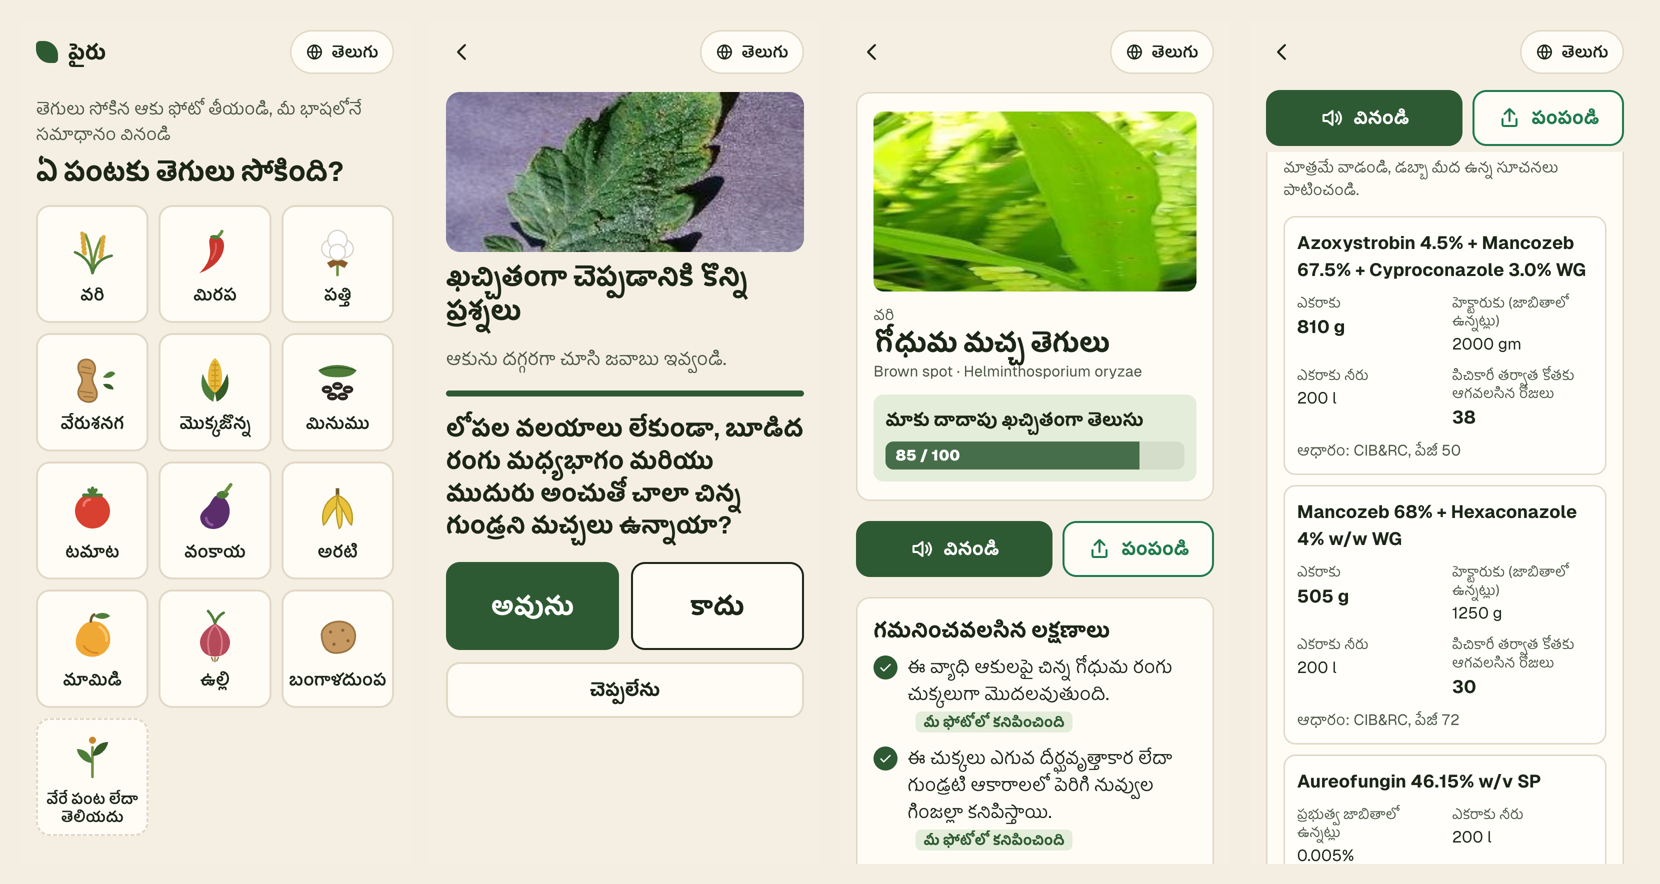
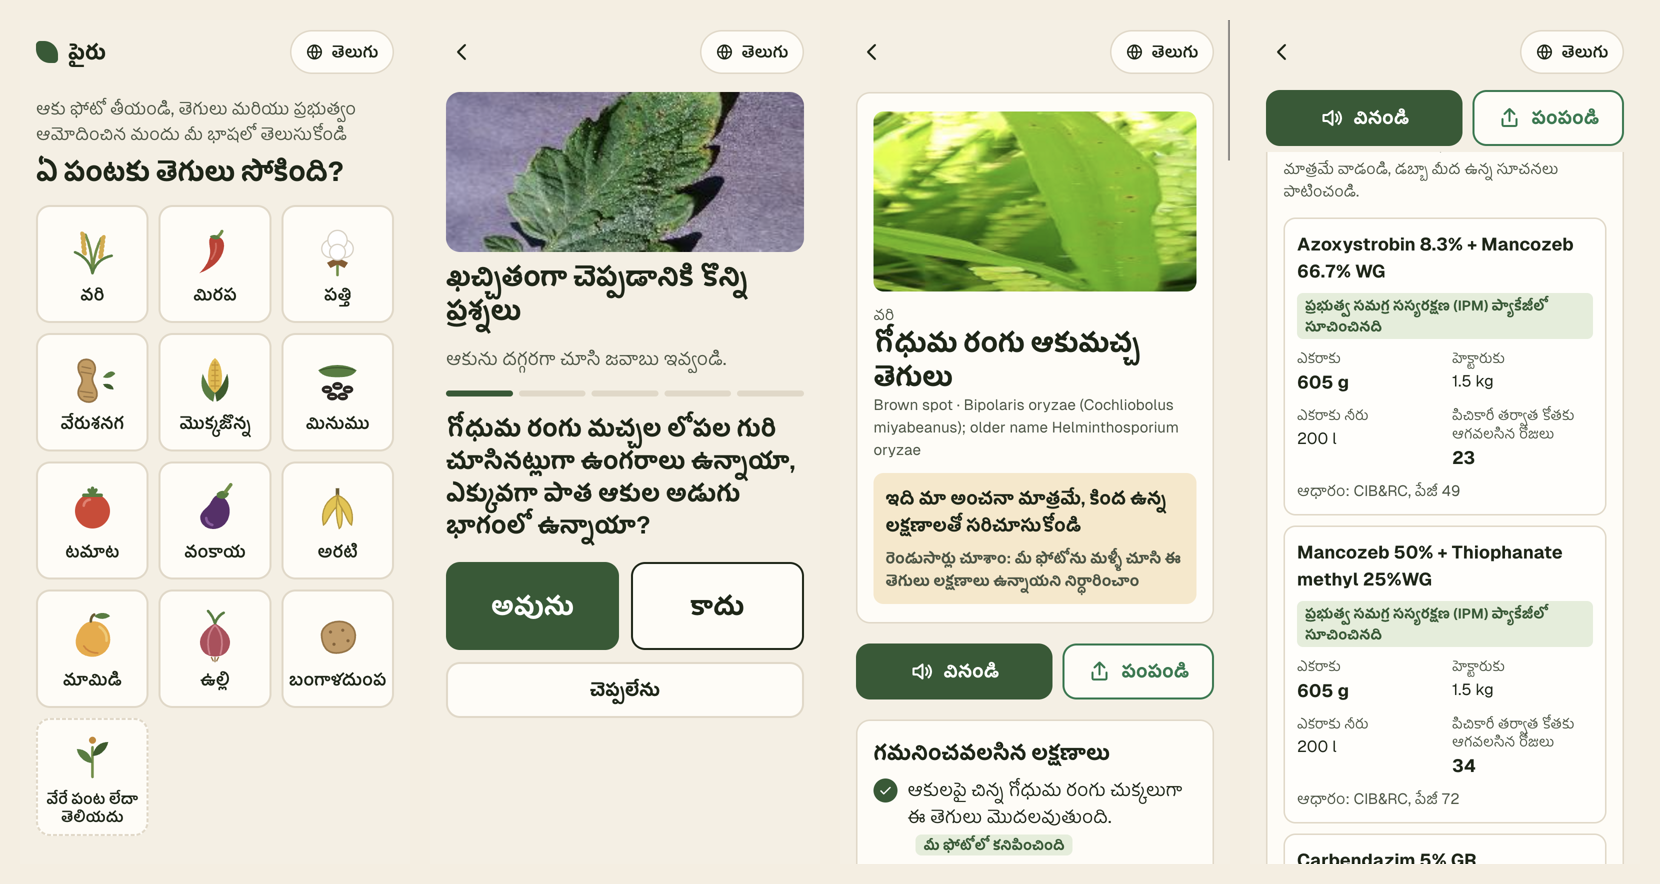
README: two-look diagnosis, dose check, IPM ranking, measured accuracy with limits, privacy

diff --git a/README.md b/README.md
@@ -1,52 +1,78 @@
 # Pairu (పైరు)
 
-Pairu helps a farmer photograph a sick leaf and hear, in their own language, what the disease is, how sure we are, and what to do about it, using only treatments that the Government of India has approved for that crop. Pairu is Telugu for a standing crop.
+Pairu helps a farmer photograph a sick leaf and hear, in their own language, what the disease is, how sure we are, and what to do about it, using only treatments that the Government of India has approved for that crop and that pest. Pairu is Telugu for a standing crop.
 
-**Live app:** https://pairu.pages.dev
+**Live app:** https://pairu.pages.dev &nbsp;|&nbsp; **Evidence page:** https://pairu.pages.dev/evidence
 
 Built for Avishkaar Season 4 (Virtual Track, AITAM Tekkali), problem statement AG-03: "Develop an intelligent multilingual recommendation system that provides reliable crop-specific disease-management guidance, including disease symptoms, treatment options, preventive measures, and recommended farming practices in farmers' native languages."
 
-![Pairu in Telugu: crop tiles, a follow-up question, the advice card and approved treatments](docs/screenshot.png)
+![Pairu in Telugu: crop tiles, a follow-up question, the advice card and IPM-ranked approved treatments](docs/screenshot.png)
 
 ## What it does
 
 1. The farmer picks a language (Telugu first, then Hindi, Tamil, Kannada, Marathi, Bengali, Odia, Gujarati, Punjabi, Malayalam and English) and taps one of 12 crop tiles.
-2. They take a photo of the leaf and, if they like, hold the mic button and describe the problem in their own words.
-3. Pairu names the disease with an honest confidence score. When two diseases look alike, it asks two or three yes/no questions that tell them apart. When it is still unsure, or the photo is blurry or shows a different crop, it says so and offers the Kisan Call Centre (1800-180-1551) instead of guessing.
-4. The advice card shows the local disease name, the symptoms (marking the ones seen in the photo), organic and biological options first, then chemicals that CIB&RC has registered for that crop and that problem, with dose per acre, water and the waiting period before harvest, followed by prevention and this week's field practices. It can be read aloud, shared on WhatsApp, and it checks whether rain or wind in the next 24 hours makes spraying a bad idea.
-
-No account is needed, and the app shell works offline as a PWA. There is also a "Try a sample photo" sheet with six labelled photos that are not in the evaluation set, and an `/about` page explaining how Pairu decides.
+2. They photograph the leaf, or tap or speak the symptoms they see ("describe instead"). A "Try a sample photo" sheet holds six labelled photos that are not in the test set.
+3. Pairu takes a first look and, when it is not sure enough, a targeted second look at the same photo. When two diseases still look alike it asks one to three yes/no questions. When it is still unsure, or the photo is blurry or shows another crop, it says so and offers the Kisan Call Centre (1800-180-1551) or the nearest of 24 Andhra Pradesh KVKs.
+4. The advice card shows the local disease name, the symptoms, a "should I spray yet?" threshold (19 pests and diseases), organic and biological options first, then the top three chemicals ranked by the government IPM package for that problem, with a checked dose per acre, water, the waiting period before harvest, the CIB&RC page, and "avoid" warnings (for example no synthetic pyrethroids for brown plant hopper). When nothing is approved for that crop and problem, it says so plainly. Then prevention, this week's tasks, a spray-weather check by location or district, listen, share and the nearest KVK.
+5. "My checks" keeps past checks on the phone and reminds the farmer to recheck after 7 days. The app shell works offline as a PWA.
 
 ## How it works
 
-**The model proposes, code decides.**
+**The model proposes, code decides.** No model is trained by us: a general vision model only ranks diseases from a closed list and answers yes/no questions, and every decision and every dose comes from code.
 
-- `POST /api/diagnose` sends the photo (resized to 1024 px on the phone) and the closed list of diseases we hold for that crop to the vision model, with a JSON schema whose id field can only be one of those ids, `<crop>_healthy` or `unknown`. The chain is Gemini 3.1 Flash Lite, then Gemini 3.5 Flash Lite, and Claude Haiku 5.5 only if both fail.
-- Code then decides (`functions/_lib/decide.ts`): it answers when the top confidence is at least 0.75 and leads the second by at least 0.25; it asks up to three yes/no questions when the top two are known look-alikes; otherwise it says it is unsure. `POST /api/resolve` counts the answers as votes, and a tie stays unsure. No model is involved in that step.
-- `GET /api/advice` builds the card from the knowledge base and joins treatments from the CIB&RC register in code (`functions/_lib/advice.ts`): banned and withdrawn actives are dropped, crop-specific restrictions are applied, WHO class Ia and Ib products are flagged and listed after safer ones, and when nothing is approved for that crop and problem the card says so plainly. A model never writes a dose.
-- Sarvam translates the card (`sarvam-translate:v1`), transcribes speech (`saarika:v2.5`) and reads the answer aloud (`bulbul:v3`). Open-Meteo gives the spray-weather check. Results and translations are cached in Workers KV.
+- **First look** (`functions/api/diagnose.ts`, `functions/_lib/vision.ts`): the photo (at most 1024 px) and the closed list of diseases we hold for that crop go to Gemini 3.1 Flash Lite, with a JSON schema whose id field can only be one of those ids, `<crop>_healthy` or `unknown`. Gemini 3.5 Flash Lite is the fallback, and Claude Haiku 5.5 (a paid API) runs only if both Gemini calls fail. Each call has a 12-second timeout.
+- **Decide** (`functions/_lib/verify.ts`, `decide.ts`): at a top confidence of 0.9 or more, answer (this threshold was chosen on half of the test set only). Between 0.4 and 0.9, a **second look**: the model sees the photo again and answers yes, no or cannot tell to our knowledge-base questions that tell the candidates apart and to one "do you see this sign?" question per candidate; code keeps a disease only if its sign is seen and nothing rules it out. One survivor is shown as "checked twice" but worded as a best guess; signs the photo cannot settle become one to three questions for the farmer, where a tie stays unsure. Below 0.4, a blurry photo, another crop or nothing left means a refusal.
+- **Treatments** (`functions/_lib/advice.ts`, `dose.ts`): rows from the CIB&RC register for that crop and pest; a product is dropped if any one of its actives is banned or withdrawn (streptomycin + tetracycline, proposed for a ban by a 2021 draft order, is dropped as a precaution); WHO class Ia and Ib products are flagged and placed last; the top three follow the IPM packages and skip the "avoid" list.
+- **Dose check**: a printed unit is never trusted. Each formulation dose is reconciled with the active-ingredient column and the label percentages; only a scale that agrees within 1.5 times is converted to per acre. Per-litre rows show per litre of water, seed treatments per kg of seed, bio products as printed, and rows that do not reconcile say "check the label". `node scripts/check_doses.mjs` reports 0 rows shown more than 2 times away from the active-ingredient calculation.
+- **Language and voice**: reviewed Telugu for every disease name and every farmer-facing line of the knowledge base (`data/kb_te.json`), Sarvam translate for the other languages, Saarika speech to text and Bulbul text to speech. Open-Meteo gives the spray-weather check. Results and translations are cached in Workers KV, and per-IP rate limits protect the model and voice endpoints.
 
 | Layer | Tools |
 |---|---|
 | Front end | React 18, Vite, TypeScript, PWA, on Cloudflare Pages |
-| API | Cloudflare Pages Functions (TypeScript), Workers KV |
-| Vision | Gemini 3.1 Flash Lite, Gemini 3.5 Flash Lite, Claude Haiku 5.5 as last resort |
+| API | Cloudflare Pages Functions (TypeScript), Workers KV, Cache API rate limits |
+| Vision | Gemini 3.1 Flash Lite, Gemini 3.5 Flash Lite; Claude Haiku 5.5 as a paid last resort |
 | Language and voice | Sarvam AI translate, speech to text, text to speech |
 | Weather | Open-Meteo |
-| Data pipeline | Python, pdfplumber, poppler |
+| Data pipeline | Python, pdfplumber, poppler, Node |
 
 ## Data sources
 
-Every fact in `data/` traces to a public source; full details, parsing rules and counts are in [data/SOURCES.md](data/SOURCES.md).
+Every fact in `data/` traces to a public source; details, parsing rules and counts are in [data/SOURCES.md](data/SOURCES.md).
 
 | File | Source | Counts |
 |---|---|---|
-| `registered_uses.json` | CIB&RC "Major Uses of Pesticides" lists as on 30.09.2026 (fungicides, insecticides, bio-fungicides, bio-insecticides) | 4,454 records parsed, 2,804 for our 12 crops |
-| `banned.json` | CIB&RC list of pesticides banned, refused registration and restricted in use, 31.10.2026 | 94 entries |
-| `hazard.json` | WHO Recommended Classification of Pesticides by Hazard, 2019 edition | 160 actives classed |
-| `kb.json` | TNAU Agritech Portal, NIPHM and DPPQS AESA based IPM packages, DPPQS advisories, ICAR-IIHR, Vikaspedia, Crop Protection Network | 12 crops, 66 diseases and pests plus healthy entries, 82 follow-up questions covering 25 look-alike pairs, 24 Telugu disease names |
+| `registered_uses.json` | CIB&RC "Major Uses of Pesticides" lists as on 30.09.2026 | 4,454 records parsed, 2,804 for our 12 crops |
+| `banned.json` | CIB&RC banned, refused and restricted list (31.10.2026), plus draft order S.O. 5295(E) of 2021 on streptomycin + tetracycline | 96 entries |
+| `hazard.json` | WHO Recommended Classification of Pesticides by Hazard, 2019 | 160 actives classed |
+| `kb.json`, `kb_te.json` | TNAU Agritech Portal, NIPHM and DPPQS AESA based IPM packages, DPPQS advisories, ICAR-IIHR, Vikaspedia, Crop Protection Network | 12 crops, 71 diseases and pests plus 12 healthy entries, a Telugu name for each, thresholds for 19, IPM-recommended actives for 47 |
+| `kvk_ap.json` | ANGRAU, Dr. YSR Horticultural University and ICAR KVK lists | 24 KVKs for the 26 AP districts |
 
 Crops: paddy, cotton, chilli, groundnut, maize, tomato, brinjal, banana, mango, black gram, potato and onion. The CIB&RC lists are, in their own words, "for guidance and not for legal purposes", so the app always tells farmers to follow the product label.
+
+## Evaluation
+
+A frozen, reproducible test of 95 labelled leaf photos: 77 PlantVillage lab photos and 18 field photos of rice (Sethy et al.), 80 of diseases Pairu holds and 15 of diseases it does not. Pairu is compared with the same model asked "What crop and disease is this?" with no list. The 0.9 threshold was chosen on one half of the photos (split by file-name hash), so the other half is the fair result. Full method, every row and the raw responses are in [eval/README.md](eval/README.md) and `eval/results.json`, and on the app's `/evidence` page.
+
+| Photos of diseases Pairu holds | Pairu v2 (live) | Bare model |
+|---|---|---|
+| Held-out half (n=37): right | 28 (75.7%) | 19 (51.4%) |
+| Held-out half: answered and wrong | 5 (13.5%) | 18 (48.6%) |
+| Held-out half: said not sure | 4 | 0 |
+| All 80: right / answered and wrong | 58 (72.5%) / 12 (15.0%) | 38 (47.5%) / 42 (52.5%) |
+| Out of list (n=15): refused | 3 | 0 |
+
+The first look alone at 0.9 or more was right on all 23 photos that reached it. Limits we state plainly: most photos are lab photos (one leaf, plain background) and may have been seen by the model in training; there are about five photos per class, so margins are wide; the farmer's answers were scripted from the true label, which is the best case; the second look was wrong on 12 of the 37 answers it confirmed, so those are shown as a best guess; and diseases outside the list are refused only 3 times in 15.
+
+```bash
+python3 -I eval/build_testset.py fetch
+eval/serve_local.sh /tmp/pairu-eval                 # local API with the Gemini key only
+python3 -I eval/run.py && python3 -I eval/run_v2.py
+python3 -I eval/score.py eval/runs/<v1 run>.jsonl && python3 -I eval/score_v2.py eval/runs/<v2 run>.jsonl
+```
+
+## Privacy
+
+Photos are sent to Google's Gemini API; on the free tier Google may use inputs to improve its products, so a real pilot should use the paid tier. If both Gemini calls fail, the photo goes to Anthropic's Claude API. Pairu has no accounts and stores no photos itself; the cache keeps only the result under a hash, location is used only for the weather request, and check history stays on the phone.
 
 ## Run it locally
 
@@ -56,17 +82,16 @@ Needs Node 20 or later.
 git clone https://github.com/tahcin/pairu.git
 cd pairu
 npm install
-cp .dev.vars.example .dev.vars   # then add your GEMINI_API_KEY and SARVAM_API_KEY (ANTHROPIC_API_KEY is optional)
+cp .dev.vars.example .dev.vars   # add GEMINI_API_KEY and SARVAM_API_KEY (ANTHROPIC_API_KEY is optional)
 npm run pages:dev                # builds, then serves the app and /api with Wrangler
 ```
 
-`npm run dev` serves the front end on its own. Never commit `.dev.vars`.
-
-Rebuild the data from the original PDFs (needs Python 3 and `pdftotext` from poppler):
+Never commit `.dev.vars`. Rebuild and check the data:
 
 ```bash
 scripts/build_all.sh                                          # CIB&RC uses, banned list, WHO classes, checks
 python3 -I scripts/build_kb.py && python3 -I scripts/check_kb.py
+node scripts/check_doses.mjs
 ```
 
 Deploy to Cloudflare Pages:
@@ -76,24 +101,12 @@ npx wrangler pages secret put GEMINI_API_KEY --project-name pairu   # and SARVAM
 npm run deploy
 ```
 
-## Evaluation
-
-`eval/testset.json` is a frozen set of 95 labelled leaf photos (77 PlantVillage lab photos and 18 field photos of rice from Sethy et al.) across tomato, potato, maize and paddy; 80 show a problem Pairu holds and 15 are outside its list, to check that it refuses rather than guesses. `eval/run.py` runs each photo through Pairu (answering any follow-up questions as a farmer looking at the real leaf would) and through the same model asked an open question, and `eval/score.py` reports top-1 accuracy, accuracy when answered, the refusal rate and the confidently-wrong rate. Results are written to `eval/results.json` and shown on the app's `/evidence` page.
-
-```bash
-eval/serve_local.sh                                # local API with the Gemini key only
-python3 -I eval/run.py --base http://127.0.0.1:8817
-python3 -I eval/score.py eval/runs/<run>.jsonl
-```
-
-Lab photos on a plain background are easier than a farmer's field photo, and only four of the twelve crops have public labelled sets we could use, so the numbers are an honest lower bar to beat, not a field guarantee.
-
 ## Licence and credits
 
 Code: MIT (see [LICENSE](LICENSE)).
 
-Data and services: CIB&RC and DPPQS, Ministry of Agriculture and Farmers Welfare, Government of India; WHO (hazard classification, CC BY-NC-SA 3.0 IGO); Tamil Nadu Agricultural University; NIPHM; ICAR-IIHR; Vikaspedia; Crop Protection Network; PlantVillage (Mohanty et al. 2016, CC BY-SA 3.0); Rice Leaf Disease Image Samples (Sethy et al. 2020, Mendeley Data, CC BY 4.0); Google Gemini; Sarvam AI; Open-Meteo; Cloudflare.
+Data and services: CIB&RC and DPPQS, Ministry of Agriculture and Farmers Welfare, Government of India; WHO (hazard classification, CC BY-NC-SA 3.0 IGO); Tamil Nadu Agricultural University; NIPHM; ICAR-IIHR; Vikaspedia; ANGRAU; Dr. YSR Horticultural University; Crop Protection Network; PlantVillage (Mohanty et al. 2016, CC BY-SA 3.0); Rice Leaf Disease Image Samples (Sethy et al. 2020, Mendeley Data, CC BY 4.0); Google Gemini; Sarvam AI; Open-Meteo; Cloudflare; Anthropic.
 
 ## How it was built
 
-Pairu was built by Team Solus (Mohammad Tahcin Sarwar Barbhuiya, IIM Bangalore) during Avishkaar Season 4, inside the 24-hour build window from Nov 27, 11:30 to Nov 28, 11:30 IST, 2026, with AI coding assistance. No code or data came from earlier projects. It is a prototype: the advice comes from public government and university sources, and a farmer should still follow the product label and, when in doubt, call the Kisan Call Centre.
+Pairu was built by Team Solus (Mohammad Tahcin Sarwar Barbhuiya, IIM Bangalore) during Avishkaar Season 4, inside the 24-hour build window from Nov 27, 11:30 to Nov 28, 11:30 IST, 2026, with AI coding assistance. No code or data came from earlier projects. It is a prototype: the advice comes from public government and university sources and has not yet been reviewed by a KVK scientist, so a farmer should still follow the product label and, when in doubt, call the Kisan Call Centre.
